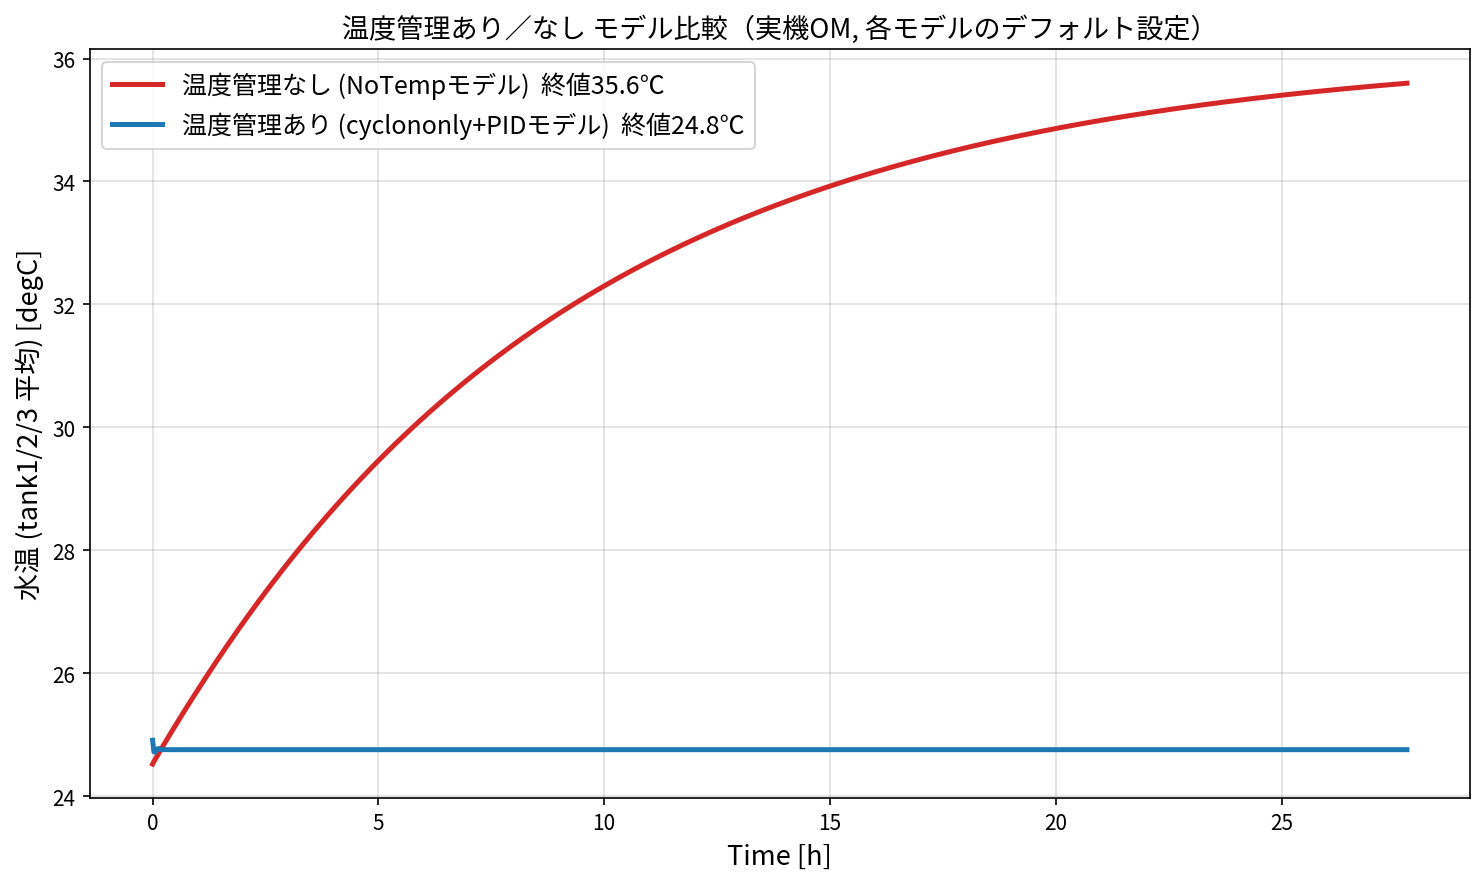
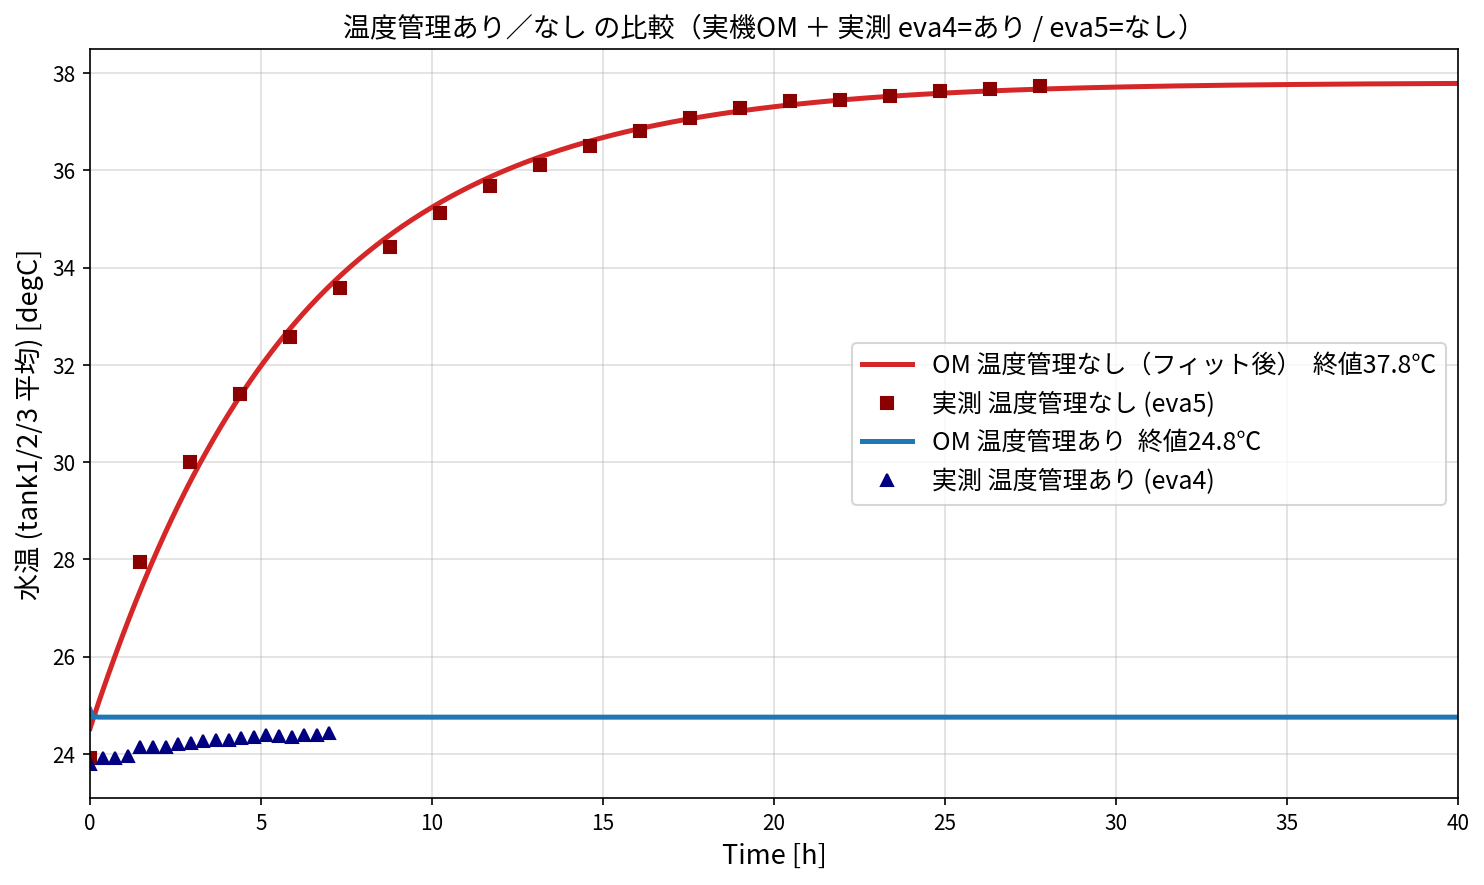
compare_modelsを主図に: 実測eva4(あり)/eva5(なし)を重畳・なしはフィット後で一致
- compare_models.png: 温度管理なし(OMフィット後37.8℃≈実測eva5) と
  あり(OM PID 24.8℃≈実測eva4)。横軸40h、凡例は実測側も温度管理あり/なしと明記
- compare_control.py/png を削除(あり模型のk=0は熱源過多で54℃となり誤解を招くため)
- OM/README を更新

Claude-Session: https://claude.ai/code/session_012Bb2Gqoegt25dmMh1N6dBX

diff --git a/docs/compare_models.py b/docs/compare_models.py
@@ -44,20 +44,45 @@ def tank_mean_C(csv_path):
     return t, K.mean(axis=1) - 273.15
 
 
+# 実測 なし (eva5, 2026-07-09): 4センサ平均が 37.7℃ まで上昇
+eva5_t = np.array([0, 5263, 10526, 15789, 21053, 26316, 31579, 36842, 42105, 47368,
+                   52632, 57895, 63158, 68421, 73684, 78947, 84211, 89474, 94737, 100000], float)
+eva5 = np.array([
+    [23.8, 27.8, 29.8, 31.2, 32.4, 33.4, 34.3, 35.0, 35.5, 36.0, 36.4, 36.7, 37.0, 37.2, 37.35, 37.40, 37.50, 37.60, 37.65, 37.70],
+    [24.0, 28.0, 30.1, 31.5, 32.7, 33.7, 34.5, 35.2, 35.8, 36.2, 36.6, 36.9, 37.15, 37.35, 37.50, 37.55, 37.60, 37.70, 37.75, 37.80],
+    [24.2, 28.4, 30.5, 31.9, 33.0, 34.0, 34.8, 35.5, 36.0, 36.4, 36.8, 37.1, 37.35, 37.55, 37.70, 37.65, 37.75, 37.80, 37.85, 37.90],
+    [23.7, 27.6, 29.6, 31.0, 32.2, 33.2, 34.1, 34.8, 35.4, 35.8, 36.2, 36.5, 36.8, 37.0, 37.15, 37.20, 37.30, 37.40, 37.45, 37.50]]).mean(0)
+# 実測 あり (eva4, 2026-07-08): 温度管理で 24℃前後に保持
+eva4_t = np.array([0, 1326, 2653, 3979, 5305, 6632, 7958, 9284, 10611, 11937,
+                   13263, 14589, 15916, 17242, 18568, 19895, 21221, 22547, 23874, 25200], float)
+eva4 = np.array([
+    [23.73, 23.84, 23.86, 23.87, 24.21, 24.10, 24.13, 24.19, 24.22, 24.26, 24.28, 24.29, 24.32, 24.35, 24.38, 24.37, 24.36, 24.40, 24.41, 24.44],
+    [24.02, 24.13, 24.06, 24.11, 24.18, 24.15, 24.15, 24.20, 24.23, 24.26, 24.29, 24.30, 24.33, 24.36, 24.39, 24.38, 24.36, 24.40, 24.42, 24.45],
+    [24.00, 24.14, 24.05, 24.10, 24.15, 24.16, 24.16, 24.21, 24.23, 24.26, 24.29, 24.30, 24.34, 24.37, 24.40, 24.38, 24.36, 24.41, 24.42, 24.44],
+    [23.42, 23.59, 23.69, 23.78, 24.05, 24.15, 24.15, 24.19, 24.21, 24.25, 24.27, 24.29, 24.31, 24.34, 24.37, 24.36, 24.30, 24.34, 24.35, 24.36]]).mean(0)
+
 fig, ax = plt.subplots(figsize=(10, 6))
-no = os.path.join(ROOT, "OM", "_cmp_notemp.csv")
+# 温度管理なし: フィット後のOMがあればそれを、無ければ基準を使う
+no_fit = os.path.join(ROOT, "OM", "_cmp_notemp_fit.csv")
+no = no_fit if os.path.exists(no_fit) else os.path.join(ROOT, "OM", "_cmp_notemp.csv")
 yes = os.path.join(ROOT, "OM", "_cmp_withtemp.csv")
+tag = "（フィット後）" if os.path.exists(no_fit) else ""
+# 温度管理なし: OM(赤線) と 実測eva5(赤四角)
 if os.path.exists(no):
     t, T = tank_mean_C(no)
     ax.plot(t / H, T, "-", color="tab:red", linewidth=2.4,
-            label="温度管理なし (NoTempモデル)  終値%.1f℃" % T[-1])
+            label="OM 温度管理なし%s  終値%.1f℃" % (tag, T[-1]))
+ax.plot(eva5_t / H, eva5, "s", color="darkred", markersize=6, label="実測 温度管理なし (eva5)")
+# 温度管理あり: OM(青線) と 実測eva4(青三角)
 if os.path.exists(yes):
     t, T = tank_mean_C(yes)
     ax.plot(t / H, T, "-", color="tab:blue", linewidth=2.4,
-            label="温度管理あり (cyclononly+PIDモデル)  終値%.1f℃" % T[-1])
+            label="OM 温度管理あり  終値%.1f℃" % T[-1])
+ax.plot(eva4_t / H, eva4, "^", color="navy", markersize=6, label="実測 温度管理あり (eva4)")
+ax.set_xlim(0, 40)
 ax.set_xlabel("Time [h]", fontsize=13)
 ax.set_ylabel("水温 (tank1/2/3 平均) [degC]", fontsize=13)
-ax.set_title("温度管理あり／なし モデル比較（実機OM, 各モデルのデフォルト設定）", fontsize=13)
+ax.set_title("温度管理あり／なし の比較（実機OM ＋ 実測 eva4=あり / eva5=なし）", fontsize=13)
 ax.grid(True, alpha=0.4)
 ax.legend(fontsize=12)
 plt.tight_layout()

diff --git a/OM/README.md b/OM/README.md
@@ -11,10 +11,10 @@
 `temp_off/run_sim.mos` … `temp_off` 内で `omc.exe run_sim.mos` すると NoTemp モデルの
 結果CSVを出力する。
 
-## あり／なし比較（実機OM）
-- 2モデルのデフォルト比較: `docs/img/002/compare_models.png`
-  （なし ~35.6℃ vs あり 25℃保持）
-- あり模型内で PID ゲイン k=100/k=0 を切替えた比較: `docs/img/002/compare_control.png`
+## あり／なし比較（実機OM ＋ 実測）
+`docs/img/002/compare_models.png`（`docs/compare_models.py`）:
+- 温度管理**なし**: OM(フィット後) 37.8℃ ≈ 実測 **eva5** 37.7℃
+- 温度管理**あり**: OM(PID) 24.8℃ ≈ 実測 **eva4** 〜24℃
 
 再現手順は `docs/003_openmodelica_paramstudy_howto.md` を参照。
 
